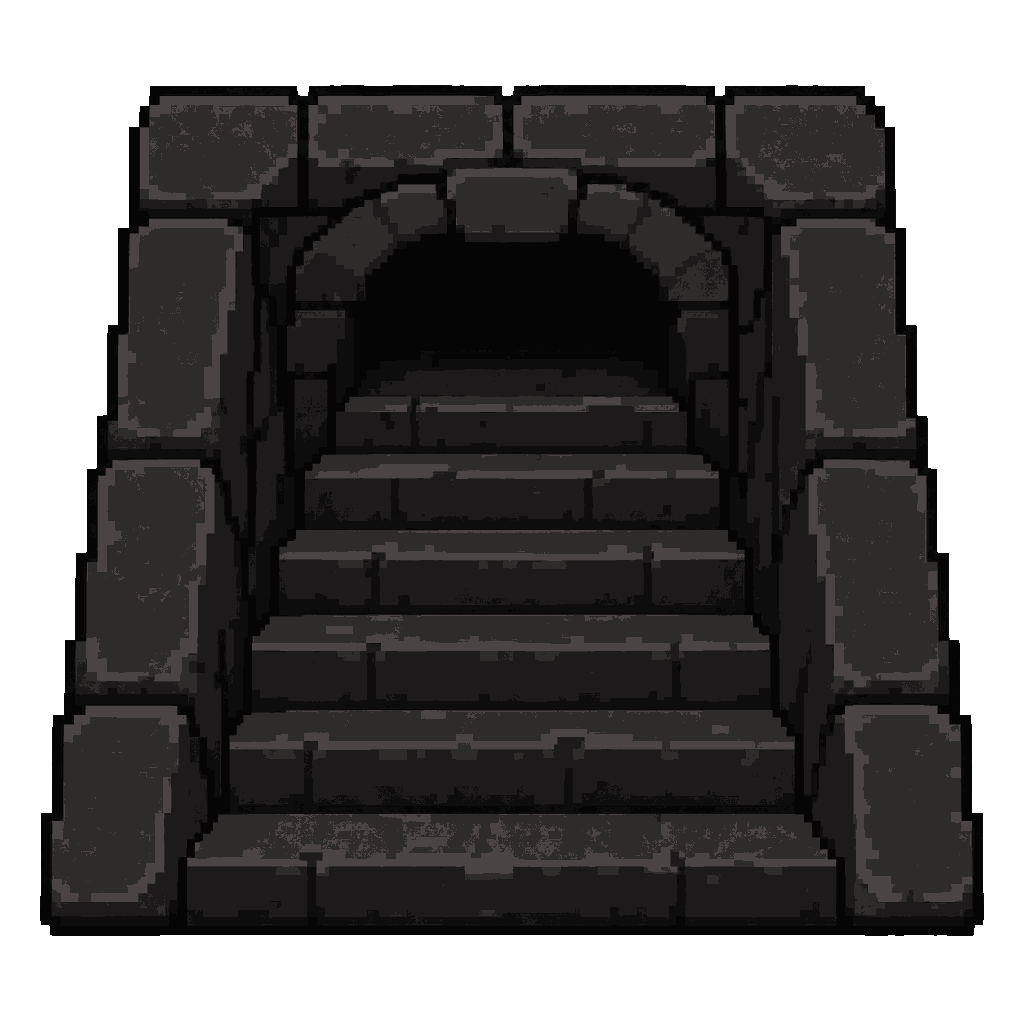
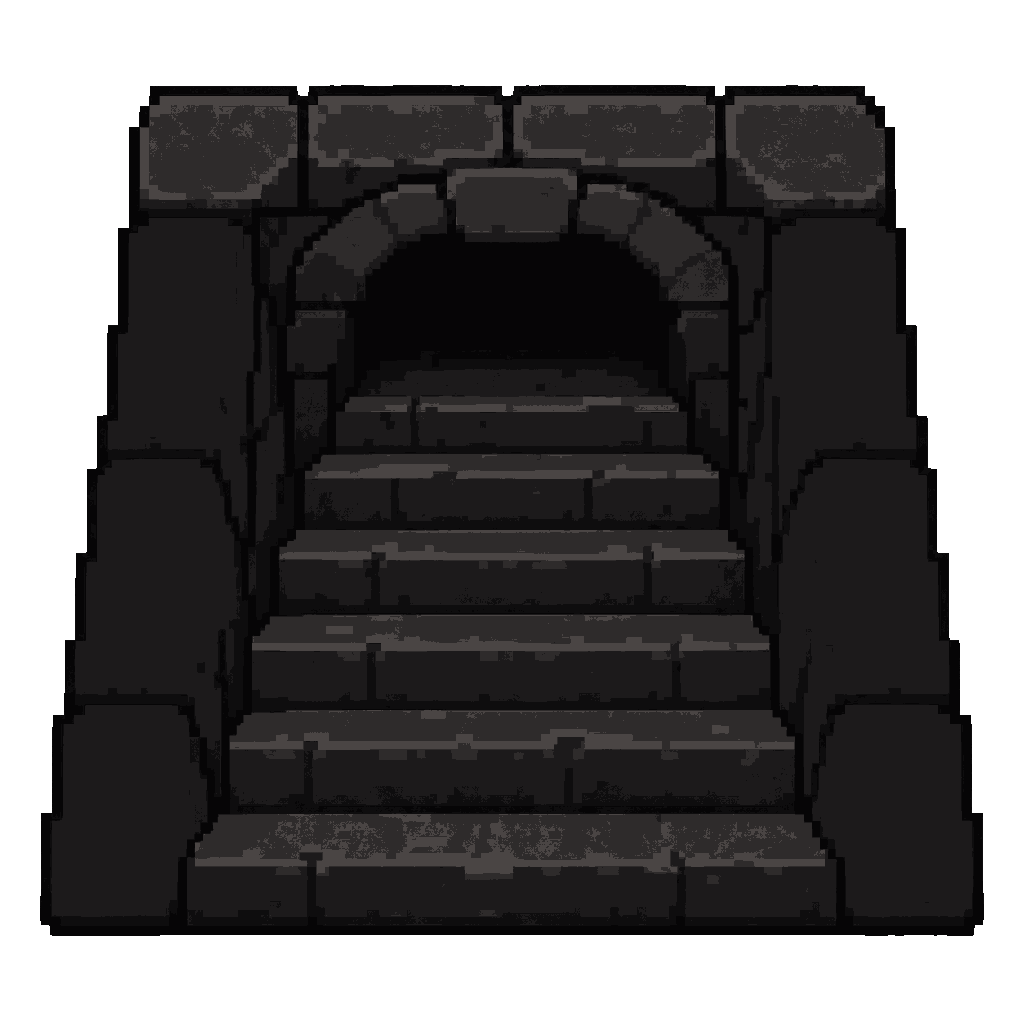
1502: darker jamb on the free-standing stairs up

diff --git a/tools/magmaprops.py b/tools/magmaprops.py
@@ -62,11 +62,16 @@ STAIR_CUTS = [0.07, 0.14, 0.24, 0.38]
 FERN_GROW, CLOSE = 5, 12
 
 
-def darken_jamb(im):
+UP_JAMB = [(365, 905, 0, 275), (365, 905, 745, 1024), (905, 1024, 0, 245), (905, 1024, 775, 1024)]
+UP_FREE_JAMB = [(215, 455, 0, 260), (455, 705, 0, 250), (705, 940, 0, 195),
+                (215, 455, 770, 1024), (455, 705, 775, 1024), (705, 940, 825, 1024)]
+
+
+def darken_jamb(im, rects=UP_JAMB):
     a = np.asarray(im).copy(); H, W = a.shape[:2]
     m = np.zeros((H, W), bool)
-    m[365:905, :275] = m[365:905, 745:] = True
-    m[905:, :245] = m[905:, 775:] = True
+    for y0, y1, x0, x1 in rects:
+        m[y0:y1, x0:x1] = True
     for hi, lo in ((BAS[3], BAS[2]), (BAS[2], BAS[1])):
         a[m & (a[..., :3] == hi).all(-1), :3] = lo
     return Image.fromarray(a)
@@ -167,7 +172,7 @@ if __name__ == '__main__':
         'forge_mg': forge('art/gen/forge_tw.png'),
         'stairs_mg': reshade('art/gen/stairs.png', STAIR_RAMP, STAIR_CUTS),
         'stairs_up_mg': darken_jamb(reshade('art/gen/stairs_up.png', STAIR_RAMP, STAIR_CUTS)),
-        'stairs_up_free_mg': reshade('art/gen/stairs_up_free.png', STAIR_RAMP, STAIR_CUTS),
+        'stairs_up_free_mg': darken_jamb(reshade('art/gen/stairs_up_free.png', STAIR_RAMP, STAIR_CUTS), UP_FREE_JAMB),
     }
     only = sys.argv[sys.argv.index('--only') + 1].split(',') if '--only' in sys.argv else list(out)
     for n, im in ((k, out[k]) for k in only):

diff --git a/TASKS.md b/TASKS.md
@@ -41,8 +41,6 @@
 
 415. ⏳ **[И]** Приёмка биома: раунды критиков — сверка с рефом и кадр, ассеты, анимация, геймплей (`study/CRITICS.md`); раунды повторяются, пока критики находят существенное (лимита нет, решение игрока 06.11.2026). Найденное — новыми задачами в этом разделе. Когда раздел закрыт — вставка в кампанию (416). → 05.11.2026, колосс перед финальным прогоном: свежие независимые критики r2 (`colossus_assets_r2.md`, `colossus_motion_r2.md`) не нашли новых блокеров. Ассеты: стиль/читаемость/нарезка 8, эмиссия 9; главные замечания r1 исправлены. Повтор на HEAD 0968d96: tune/selfCheck, colossuscheck и QA ригов (419 состояний) — PASS. Остаток со звёздами над склонённой головой закрыт в 442. Это проверка колосса; полная приёмка биома остаётся здесь. → 05.11.2026, раунд 1 по всему биому (бриф `study/critique/MAGMA_BRIEF.md`, отчёты `magma_{fidelity,frame,assets,motion,game}_r1.md`): оценки — сверка 2–7 (базальт 3, арка 2), кадр 4–6 (туман 4), анимация 3–8 (колосс 8, QA 3), геймплей 3–8 (опасности среды 3), ассеты 6–8; найденное — задачи 445–466. Боты не гонялись (443). Раунд 2 — когда закрыты 445–466 (или решение игрока). → 06.11.2026, раунд 2 (бриф `study/critique/MAGMA_BRIEF_R2.md`, отчёты `magma_{fidelity,frame,assets,motion,game}_r2.md`; перед раундом tune, qa (453 состояния), cavecheck, motioncheck, lootvis magma, swingcheck — PASS): оценки — сверка 5–8 (r1 2–7; арка 2 → 5, базальт 3 → 5), кадр 5–7 (r1 4–6; туман 4 → 6), ассеты 6–8 (без изменений), анимация 5–8 (r1 3–8; QA 3 → 7; новое движение мира 471–476 — 4), геймплей 5–8 (общее 7 → 8, опасности среды 3 → 5). Из находок r1 большинство исправлено или частично, сломанных нет; не исправлены `fireTint`, прыжок импа, камень в воздухе. Найденное — задачи 478–490; для 414 — в её записи. Раунд 3 — когда закрыты 478–490. → 07.11.2026, раунд 3 (бриф `study/critique/MAGMA_BRIEF_R3.md`, отчёты `magma_{fidelity,frame,assets,motion,game}_r3.md`; перед раундом tune, qa (494 состояния), cavecheck, motioncheck, swingcheck, lootvis magma — PASS): оценки — сверка 6–8 (r2 5–8; корка и плиты 5 → 8, свет 6 → 8, арка 5 → 7), кадр 7–8 (r2 5–7), ассеты 6–8 (r2 6–8), анимация 6–8 (r2 4–8; движение мира 4 → 6, прыжок импа 5 → 7), геймплей 6–8 (опасности среды 5 → 7, залы 6 → 7, босс 7 → 8). Из находок r2 большинство исправлено, сломанного нет; другие биомы попиксельно не задеты. Новое и частичное — задачи 1035–1045. Раунд 4 — когда закрыты 1035–1045. → 07.11.2026, раунд 4 (бриф `study/critique/MAGMA_BRIEF_R4.md`, отчёты `magma_*_r4.md`; перед раундом tune, qa (494), cavecheck, motioncheck, swingcheck, lootvis magma — PASS): оценки — сверка 6–8 (столбы 6 → 7, пропасть 7 → 6 — новая находка), кадр 7–8 (читаемость, опасности, залы 7 → 8), ассеты 6–9 (сетка 8 → 9), анимация 6–8 (прыжок импа 7 → 8, движение мира 6 → 7, покрытие QA 7 → 6), геймплей 6–8 (читаемость, переправы 7 → 8). Регрессии от правок r3: тон монстров вдали от лавы (1035) и обесцвеченные швы (1038); другие биомы попиксельно не задеты. Найденное — задачи 1046–1054. Раунд 5 — когда закрыты 1046–1054. → 07.11.2026, раунд 5 (бриф `MAGMA_BRIEF_R5.md`, отчёты `magma_*_r5.md`; перед раундом tune, qa (495), cavecheck, swingcheck, lootvis — PASS): оценки — сверка 6–8 (лава 6 → 7), кадр 6–8 (сверка с рефом 7 → 8, туман 7 → 6), ассеты 6–9 (мусор 8 → 9, согласованность 6 → 7), анимация 6–8 (бросок импа 6 → 7, движение мира 7 → 8), геймплей 6–8 (общее 8 → 7 из-за чёрного титульного экрана). Регрессии правок r4: титульный экран без сцены во всех биомах (1046, `SC.state` нет) — исправлено сразу (521456a, `menuerr.mjs`: 0 ошибок); цвета врагов (1055), искры ядра шва у тумана (1056), фитиль после взрыва (1057). Найденное — задачи 1055–1059. Раунд 6 — когда закрыты 1054–1059. → 08.11.2026, раунд 6 (бриф `study/critique/MAGMA_BRIEF_R6.md`, отчёты `magma_*_r6.md`; перед раундом tune, qa (520), cavecheck, motioncheck — PASS, кроме `folk_guard_work` (1144)): блокеров нет. Оценки — сверка 6–8 (без изменений; из 16 находок r5 частично 1, не исправлено 13), кадр 7–8 (туман 6 → 7), ассеты 7–9 (стиль 7 → 8, согласованность 7 → 8; находки r5 исправлены), анимация 6–8 (удар голема 7 → 8, фитиль 7 → 8, покрытие QA 6 → 7), геймплей 7–8 (общее 7 → 8, залы 7 → 8, риск и награда 6 → 7; островок, награды залов, фитиль, второй провал — исправлены). Другие биомы попиксельно не задеты. Регрессии и новое от 1054: второй мост пропасти — двойник первого рядом (1158), шипы и трещины в круге святилища, его свечение цвета лавы (1159). Найденное — задачи 1158–1163, уточнение 1156; «12 этажей» в меню — 1147 ветки `svsq/endless-update`. Раунд 7 — когда закрыты 1156–1163 (или решение игрока). → 08.11.2026, раунд 7 (бриф `study/critique/MAGMA_BRIEF_R7.md`, отчёты `magma_{fidelity,frame,assets,motion,game}_r7.md`; перед раундом tune и qa (522 состояния) — PASS, motioncheck — только 1144; переход из города включён): сверка 6–8 (палитра 7 → 7,5; пропасть 6 → 7), кадр 7–8 (читаемость плана 8 → 7), ассеты 7–9 (мусор 9 → 8, силуэт 7 → 8), анимация 6–8 без изменений, геймплей 7–8 (общее 8 → 7); переход из города — 6–7. Найденное — задачи 1164–1176; блокеры — 1164 (регрессия моста из 1162) и 1165 (петля награды за победу). → 08.11.2026, раунд 8 (бриф `study/critique/MAGMA_BRIEF_R8.md`, отчёты `magma_{fidelity,frame,assets,motion,game}_r8.md`; перед раундом tune — PASS, motioncheck — только 1144, qa — только `shop_wander`, 1194): блокеров биома нет, поломок от 1164–1177 в других биомах не найдено. Сверка 6–8 (материалы 6 → 6,5), кадр 7–8 (читаемость плана 7 → 8, переход 7 → 8), ассеты 7–9 (мусор 8 → 9), анимация 6–8 (саламандра 6 → 8, удар голема 8 → 7, покрытие QA 7 → 8, переход 7 → 8), геймплей 7–8 (общее 7 → 8, риск и награда 7 → 8, переход 6 → 7, отзывчивость 8 → 7 из-за 1184). Найденное — задачи 1184–1194, голоса по хвосту — в 1163. → 08.11.2026, раунд 9 (бриф `study/critique/MAGMA_BRIEF_R9.md`, отчёты `magma_{fidelity,frame,assets,motion,game}_r9.md`; перед раундом tune, motioncheck, cavecheck — PASS): блокеров биома нет, другие биомы попиксельно не задеты. Сверка 6–8,5 (свет 8 → 8,5, материалы 6,5 → 7, корка и плиты 8 → 7,5), кадр 7–9 (HUD 8 → 9, переход 8 → 9), ассеты 7–9 (стиль 8 → 7,5, контур 8 → 7,5, размеры 7 → 7,5, согласованность 8 → 7), анимация: удар голема 7 → 8, переход 8 → 9, геймплей 7–8 (переход 7 → 8, отзывчивость 7 → 8). Найденное — задачи 1199–1207. → 09.11.2026, раунд 10 (бриф `study/critique/MAGMA_BRIEF_R10.md`, отчёты `magma_{fidelity,frame,assets,motion,game}_r10.md`; перед раундом tune, cavecheck, motioncheck, qa — PASS): блокеров биома нет, есть регрессия 1163 (1209). Сверка: лава 7 → 7,5, материалы 7 → 7,5, базальт 7 → 6,5, архитектура 8 → 7,5; кадр: опасности 8 → 9; ассеты: стиль 7,5 → 8, швы 8 → 8,5, согласованность 7 → 8; анимация без изменений; геймплей: читаемость 8 → 7, общее 8 → 7. Другие биомы: дефектов не найдено (подошва `faceH` общая с водными пещерами, поэтому они попиксельно изменились). Найденное — задачи 1209–1218. → 09.11.2026, раунд 11 (бриф `study/critique/MAGMA_BRIEF_R11.md`, отчёты `magma_{fidelity,frame,assets,motion,game}_r11.md`; перед раундом tune, cavecheck, motioncheck, qa — PASS): блокеров нет. Геймплей: общее 7 → 8, переправы 8 → 7. Сверка: базальт 6,5 → 7, архитектура 7,5 → 8. Ассеты: контур 7,5 → 8,5, силуэт 8 → 8,5. Анимация: плавание саламандры 8 → 9. Кадр без изменений. Другие биомы не сломаны, водные пещеры попиксельно совпали с состоянием до 1175. Найденное — задачи 1502–1508.
 
-1502. ⏳ **[А][С]** Косяк отдельно стоящей лестницы, остаток 1217 (раунд 11): `darken_jamb` применена только к `stairs_up_mg`, а на 13-м у 14 из 16 сидов стоит `stairs_up_free_mg`, L* косяка 22–24 при цели ≤ 18. Объём S.
-
 1503. ⏳ **[М]** Кромка героя мигает шириной, дефект 1216 (раунд 11, `magma_motion_r11.md`): при горизонтальном свете 176 ↔ 357 px за кадр (тюрьма, кадры 16–28): дробное начало `box` в `scene_world.js`, с привязкой к сетке 2 px прыжки уходят. Заодно очищать `T.rim` только в боксе 260×210: проход стоит около 2 мс на кадр у лавы (замер под нагрузкой). Рваность линии: на `magma_arch` 14 % пикселей в кусках короче 16 px. Объём S.
 
 1504. ⏳ **[С]** Прямые берега лавы, 1214 не дала эффекта (раунд 11): шум добавлен в `openAt`, а край лавы рисует `MLAVA` по своей маске; прямые 133, 133 и 100 px на тех же координатах (реф до 56). Шум искать в `MLAVA`; `u_rag` убрать, если не нужен. Объём S–M.

diff --git a/TASKS_COMPLETED.md b/TASKS_COMPLETED.md
@@ -959,6 +959,8 @@
 
 1335. ✅ **[И]** (4.5) После победы над Магмовым колоссом экран пуст: «Победа», подпись о колоссе, слева пустая рамка, кнопок нет, поэтому забег не сохранить для разбора. Сначала воспроизвести на настоящей победе, а не только на QA-состоянии `win`: в `end` (`hud.js`) рамка `e_story` рисуется до `SCENE.endActors`, а всё остальное идёт после, поэтому похоже на ошибку посреди отрисовки (не проверено). Исправить, кнопка сохранения журнала есть на экране победы; проверка с настоящим `S.result` магмы и забега через город. Объём S. → 09.11.2026: на настоящем `S.result` ошибку не воспроизвёл: победа в живом цикле (магма через портал и забег через город), 1080 концов забега из QA-состояний и 162 сочетания класса и оружия рисуют экран целиком, с кнопками. Причина пустого экрана игрока не установлена. Сделано: сбой в `SCENE.endActors` больше не обрывает `end` (`hud.js`), ошибка уходит в консоль один раз. С подброшенной ошибкой в `endActors` на настоящих результатах магмы и города экран полный, «Сохранить журнал» на месте.
 
+1502. ✅ **[А][С]** Косяк отдельно стоящей лестницы, остаток 1217 (раунд 11): `darken_jamb` применена только к `stairs_up_mg`, а на 13-м у 14 из 16 сидов стоит `stairs_up_free_mg`, L* косяка 22–24 при цели ≤ 18. Объём S. → 09.11.2026: `darken_jamb` получила область как параметр и применена к `stairs_up_free_mg` (`tools/magmaprops.py`): медиана L* косяка спрайта 17,8 → 9,5, ступени не менялись. В кадре не перемерял.
+
 ## Стартовый город, квесты и порталы (R-17)
 
 1149. ✅ **[Г][А]** (решение игрока 07.11.2026) Ворота города: у двора крепости нет входа, город выглядит тюрьмой. Добавить ворота в стене двора (ассет и место на плане `TOWN`, проход за ними закрыт). E у ворот — выход: во время кампании — «Сдаться» (как в меню паузы, с подтверждением), после победы над колоссом — «Завершить поход» (как у Хранителя, 1148). QA-состояние ворот, проверка проходимости двора (`townWalk`). → 07.11.2026: ассет `gate_tw` (`art/prompts/gate_tw.txt`, образец — разрушенная арка с верха референса города, `study/refcrops/town_gate_arch.png`): каменная арка из клиньев в стене из сланцевых блоков, закрытые дубовые створки с железными полосами и засовом, мох; без света, чистая альфа. На плане `TOWN` (`dungeon.js`) — `exitGate` в нижней стене по центру, где кончается мощёная тропа от костра (как на референсе); E — у `use.exitGate` над рельсами, чтобы ворота не закрывали героя; фонарь на столбе сдвинут с 31 на 32. E у ворот (`atExitGate`, `sim_town.js`) открывает окно `leave` (`UI.leave`, `hud.js`): «Ворота города», до колосса — «Уйти сейчас — сдаться» и кнопка «Сдаться» (забег кончается как сданный), после — «Кампания пройдена…» и «Завершить поход» (`finishRun`, как у Хранителя, 1148); «Остаться». Уйти — только кнопкой или Enter, E и Esc — остаться. Подсказка «E — ворота города». selfCheck (`townCheck`): ворота на плане и в двухклеточном проходе от спавна, E открывает окно, E в нём не кончает забег, «Сдаться» — сданный забег, после колосса — победа. QA: `town_exit_gate`, `town_leave`, `town_leave_done` (просмотрены). Раунд критиков не запускался (план).
